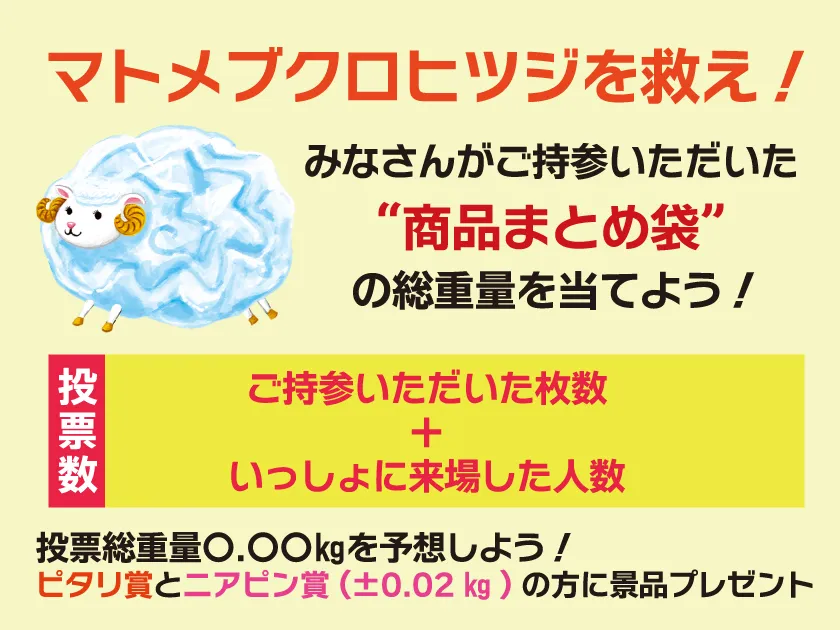
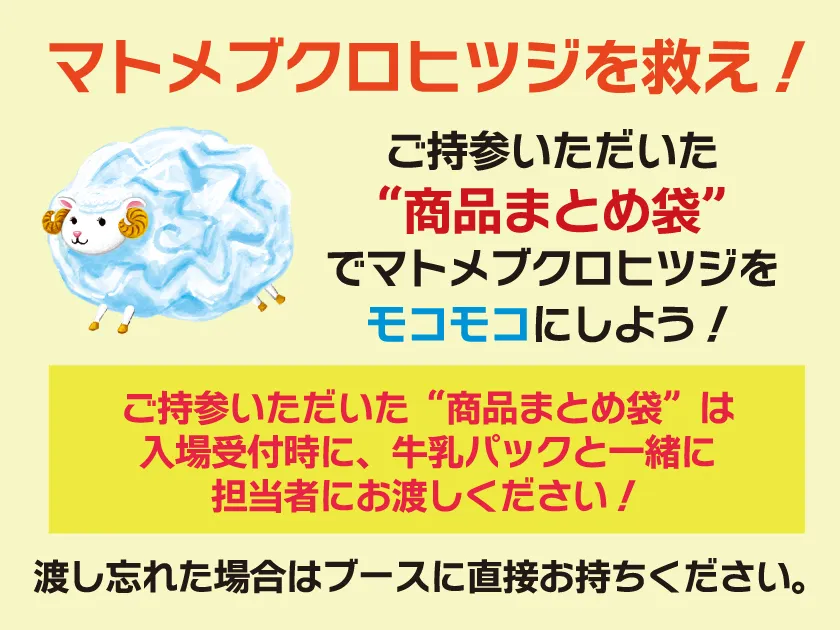
bug fix

diff --git a/src/components/EventMap.js b/src/components/EventMap.js
@@ -7,7 +7,24 @@ import { GLTFLoader } from 'three/examples/jsm/loaders/GLTFLoader';
 import { FontLoader } from 'three/examples/jsm/loaders/FontLoader';
 import { TextGeometry } from 'three/examples/jsm/geometries/TextGeometry';
 function Instructions({ onShowMap }) {
-    return (_jsx("div", { className: "flex flex-col items-center justify-center min-h-screen bg-gradient-to-r from-pink-300 via-purple-300 to-indigo-300 p-4", children: _jsxs("div", { className: "bg-white bg-opacity-90 p-8 rounded-3xl shadow-lg max-w-2xl transform transition duration-300 ease-in-out hover:scale-105 hover:shadow-2xl", children: [_jsx("h1", { className: "text-4xl font-extrabold mb-4 text-center text-pink-600 tracking-wide", children: "\u30DE\u30C3\u30D7\u5229\u7528\u306E\u6CE8\u610F\u4E8B\u9805" }), _jsxs("ul", { className: "list-disc pl-5 mb-6 space-y-3 text-lg text-gray-800", children: [_jsx("li", { children: "\u3053\u306E\u30DE\u30C3\u30D7\u306F3D\u8868\u793A\u3067\u3059\u3002\u30C9\u30E9\u30C3\u30B0\u3057\u3066\u8996\u70B9\u3092\u5909\u66F4\u3067\u304D\u307E\u3059\u3002" }), _jsx("li", { children: "\u5404\u30D6\u30FC\u30B9\u3092\u30AF\u30EA\u30C3\u30AF\u3059\u308B\u3068\u3001\u30D6\u30FC\u30B9\u306E\u5546\u54C1\u60C5\u5831\u304C\u8868\u793A\u3055\u308C\u307E\u3059\u3002" }), _jsx("li", { children: "\u5404\u30D6\u30FC\u30B9\u306E\u5546\u54C1\u60C5\u5831\u304B\u3089\u3001\u6C17\u306B\u5165\u3063\u305F\u5546\u54C1\u30923\u7A2E\u985E\uFF08\u54041\u70B9\uFF09\u307E\u3067\u3054\u6CE8\u6587\u3044\u305F\u3060\u3051\u307E\u3059\u3002" }), _jsx("li", { children: "\u30D4\u30F3\u30C1\u30A4\u30F3\u30FB\u30D4\u30F3\u30C1\u30A2\u30A6\u30C8\u3067\u62E1\u5927\u30FB\u7E2E\u5C0F\u3067\u304D\u307E\u3059\u3002" }), _jsx("li", { children: "\u30B9\u30DE\u30FC\u30C8\u30D5\u30A9\u30F3\u3067\u306E\u95B2\u89A7\u306F\u3001\u6A2A\u5411\u304D\u304C\u304A\u3059\u3059\u3081\u3067\u3059\u3002" }), _jsx("li", { children: "3D\u8868\u793A\u304C\u91CD\u3044\u5834\u5408\u306F\u3001\u30D6\u30E9\u30A6\u30B6\u3092\u518D\u8D77\u52D5\u3057\u3066\u304F\u3060\u3055\u3044\u3002" })] }), _jsx("button", { onClick: onShowMap, className: "map-button", children: "\u30DE\u30C3\u30D7\u3078GO" })] }) }));
+    const [loading, setLoading] = useState(false);
+    const loadMapResources = async () => {
+        // ここで3Dマップに必要なリソースを非同期で読み込む処理を実装
+        // 例えば、テクスチャやモデルを読み込む
+        await new Promise(resolve => setTimeout(resolve, 2000)); // 擬似的な遅延
+    };
+    useEffect(() => {
+        loadMapResources(); // コンポーネントマウント時にリソースを読み込む
+    }, []);
+    const handleShowMap = () => {
+        setLoading(true);
+        // マップが準備完了になるまで待つ処理
+        setTimeout(() => {
+            onShowMap(); // 3Dマップを表示
+            setLoading(false); // ローディングが完了したらfalseに
+        }, 3000); // 3秒の遅延（必要に応じて調整）
+    };
+    return (_jsx("div", { className: "flex flex-col items-center justify-center min-h-screen", children: loading ? (_jsx("div", { className: "loading-indicator", children: _jsx("p", { children: "\u30DE\u30C3\u30D7\u3092\u8AAD\u307F\u8FBC\u307F\u4E2D..." }) })) : (_jsxs("div", { className: "bg-white bg-opacity-80 p-8 rounded-2xl shadow-lg max-w-2xl", children: [_jsx("h1", { className: "text-3xl font-extrabold mb-4 text-center text-gray-900 tracking-wide", children: "\u30DE\u30C3\u30D7\u5229\u7528\u306E\u6CE8\u610F\u4E8B\u9805" }), _jsxs("ul", { className: "list-disc pl-5 mb-6 space-y-3 text-lg text-gray-700", children: [_jsx("li", { children: "\u3053\u306E\u30DE\u30C3\u30D7\u306F3D\u8868\u793A\u3067\u3059\u3002\u30C9\u30E9\u30C3\u30B0\u3057\u3066\u8996\u70B9\u3092\u5909\u66F4\u3067\u304D\u307E\u3059\u3002" }), _jsx("li", { children: "\u30D6\u30FC\u30B9\u3092\u30AF\u30EA\u30C3\u30AF\u3059\u308B\u3068\u3001\u5404\u30D6\u30FC\u30B9\u306E\u5546\u54C1\u60C5\u5831\u304C\u8868\u793A\u3055\u308C\u307E\u3059\u3002" }), _jsx("li", { children: "\u5404\u30D6\u30FC\u30B9\u306E\u5546\u54C1\u60C5\u5831\u304B\u3089\u3001\u6C17\u306B\u5165\u3063\u305F\u5546\u54C1\u30923\u7A2E\u985E\uFF08\u54041\u70B9\uFF09\u307E\u3067\u3054\u6CE8\u6587\u3044\u305F\u3060\u3051\u307E\u3059\u3002" }), _jsx("li", { children: "\u30D4\u30F3\u30C1\u30A4\u30F3\u30FB\u30D4\u30F3\u30C1\u30A2\u30A6\u30C8\u307E\u305F\u306F\u30B9\u30AF\u30ED\u30FC\u30EB\u3067\u62E1\u5927\u30FB\u7E2E\u5C0F\u3067\u304D\u307E\u3059\u3002" }), _jsx("li", { children: "\u30B9\u30DE\u30FC\u30C8\u30D5\u30A9\u30F3\u3067\u306E\u95B2\u89A7\u306F\u3001\u6A2A\u5411\u304D\u304C\u304A\u3059\u3059\u3081\u3067\u3059\u3002" }), _jsx("li", { children: "3D\u8868\u793A\u304C\u91CD\u3044\u5834\u5408\u306F\u3001\u30D6\u30E9\u30A6\u30B6\u3092\u518D\u8D77\u52D5\u3057\u3066\u304F\u3060\u3055\u3044\u3002" })] }), _jsx("button", { onClick: handleShowMap, className: "map-button", children: "\u30DE\u30C3\u30D7\u3078GO" })] })) }));
 }
 const booths = [
     // 上段（12ブース）
@@ -25,7 +42,7 @@ const booths = [
     { id: 1, position: [15, 0, -34], size: [6, 1.5, 2], name: "ヱスケー石鹸㈱", description: "パルシステム群馬の組合員が開発に協力！洗浄力が高い “衣類用部分洗い石けんです。「子どもからおとなまで楽しく使える！」をテーマに、成分や香り、石けんのサイズや形状にまでこだわりを詰め込みました。 固形石けんを使ったことのない方も、この商品からぜひお試しください。環境にも人にもやさしい洗濯が楽しくなる石けんです。", hasLink: true, link: "https://forms.gle/h5DLVLqZLLykifCJ8", image: "/images/booth1-1.webp?height=70&width=70", image2: "/images/booth1-2.webp?height=70&width=70" },
     // 左列（5ブース）
     { id: 13, position: [-27, 0, -28], size: [2, 1.5, 6], name: "㈱スクロール", description: "スクロールは全国の生協様に衣料品・靴、バッグといった服飾雑貨商品を販売しているアパレルメーカーです！当日は普段触れないお洋服の展示はもちろん、親子で楽しめるオリジナルエコバッグ作り体験を実施いたします！", hasLink: true, link: "https://www.scroll-fan.com/", image: "/images/booth13-1.webp?height=100&width=100", image2: "/images/booth13-2.webp?height=100&width=100" },
-    { id: 90, position: [-27, 0, -22], size: [2, 1.5, 3], name: " マトメブクロヒツジを救え!", description: "来場者のみなさんがご持参いただいた「商品まとめ袋」の総重量を予想しよう!予想が的中したあなたには景品を後日プレゼント!", hasLink: false, link: "https://forms.gle/h5DLVLqZLLykifCJ8", image: "/images/booth90-1.webp?height=100&width=100", image2: "/images/booth90-2.webp?height=100&width=100" },
+    { id: 90, position: [-27, 0, -22], size: [2, 1.5, 3], name: " マトメブクロヒツジを救え!", description: "来場者のみなさんがご持参いただいた「商品まとめ袋」で、マトメブクロヒツジをモコモコにしよう！", hasLink: false, link: "https://forms.gle/h5DLVLqZLLykifCJ8", image: "/images/booth90-1.webp?height=100&width=100", image2: "/images/booth90-2.webp?height=100&width=100" },
     { id: 91, position: [-27, 0, -18], size: [2, 1.5, 3], name: "リサイクル探し", description: "ブースの中に隠れる、リサイクルできるものとできないものを“5つ”探すゲームです。ぜひチャレンジしてみてね!", hasLink: false, link: "https://forms.gle/h5DLVLqZLLykifCJ8", image: "/images/booth91-1.webp?height=100&width=100", image2: "/images/booth91-2.webp?height=100&width=100" },
     { id: 92, position: [-27, 0, -14], size: [2, 1.5, 3], name: "エコ活ど～れだ", description: "街の風景からエコな活動をしているところを探してみよう！君はいくつ見つけられるかな？", hasLink: false, link: "https://forms.gle/h5DLVLqZLLykifCJ8", image: "/images/booth92-1.webp?height=100&width=100", image2: "/images/booth92-2.webp?height=100&width=100" },
     { id: 93, position: [-27, 0, -10], size: [2, 1.5, 3], name: "射的 de SDGs", description: "「S」「D」「Gs」の的を狙ってshoot!3つを狙って、SDGsを完成させよう!", hasLink: false, link: "https://forms.gle/h5DLVLqZLLykifCJ8", image: "/images/booth93-1.webp?height=100&width=100", image2: "/images/booth93-2.webp?height=100&width=100" },
@@ -113,7 +130,7 @@ export default function Component() {
         mountRef.current.appendChild(renderer.domElement);
         // Environment map
         const loader = new THREE.TextureLoader();
-        const texture = loader.load('images/map/background_new.png', () => {
+        const texture = loader.load('images/map/background_new.webp', () => {
             const rt = new THREE.WebGLCubeRenderTarget(texture.image.height);
             rt.fromEquirectangularTexture(renderer, texture);
             scene.background = rt.texture;
@@ -575,7 +592,7 @@ export default function Component() {
         }
         // 南壁の下に画像を追加
         const imageLoader = new THREE.TextureLoader();
-        imageLoader.load('/images/map/eventmap_info.jpg?v=' + Date.now(), (texture) => {
+        imageLoader.load('/images/map/eventmap_info.webp?v=' + Date.now(), (texture) => {
             const imageAspect = texture.image.width / texture.image.height;
             const scaleFactor = 1.4; // 拡大倍率
             const planeWidth = 40 * scaleFactor; // 幅を2倍に

diff --git a/src/components/EventMap.tsx b/src/components/EventMap.tsx
@@ -8,27 +8,52 @@ import { FontLoader } from 'three/examples/jsm/loaders/FontLoader'
 import { TextGeometry } from 'three/examples/jsm/geometries/TextGeometry'
 
 function Instructions({ onShowMap }: { onShowMap: () => void }) {
+  const [loading, setLoading] = useState(false);
+
+  const loadMapResources = async () => {
+    // ここで3Dマップに必要なリソースを非同期で読み込む処理を実装
+    // 例えば、テクスチャやモデルを読み込む
+    await new Promise(resolve => setTimeout(resolve, 2000)); // 擬似的な遅延
+  };
+
+  useEffect(() => {
+    loadMapResources(); // コンポーネントマウント時にリソースを読み込む
+  }, []);
+
+  const handleShowMap = () => {
+    setLoading(true);
+    // マップが準備完了になるまで待つ処理
+    setTimeout(() => {
+      onShowMap(); // 3Dマップを表示
+      setLoading(false); // ローディングが完了したらfalseに
+    }, 3000); // 3秒の遅延（必要に応じて調整）
+  };
+
   return (
-    <div className="flex flex-col items-center justify-center min-h-screen bg-gradient-to-r from-pink-300 via-purple-300 to-indigo-300 p-4">
-      <div className="bg-white bg-opacity-90 p-8 rounded-3xl shadow-lg max-w-2xl transform transition duration-300 ease-in-out hover:scale-105 hover:shadow-2xl">
-        <h1 className="text-4xl font-extrabold mb-4 text-center text-pink-600 tracking-wide">
-          マップ利用の注意事項
-        </h1>
-        <ul className="list-disc pl-5 mb-6 space-y-3 text-lg text-gray-800">
-          <li>このマップは3D表示です。ドラッグして視点を変更できます。</li>
-          <li>各ブースをクリックすると、ブースの商品情報が表示されます。</li>
-          <li>各ブースの商品情報から、気に入った商品を3種類（各1点）までご注文いただけます。</li>
-          <li>ピンチイン・ピンチアウトで拡大・縮小できます。</li>
-          <li>スマートフォンでの閲覧は、横向きがおすすめです。</li>
-          <li>3D表示が重い場合は、ブラウザを再起動してください。</li>
-        </ul>
-        <button 
-          onClick={onShowMap}
-          className="map-button" 
-        >
-          マップへGO
-        </button>
-      </div>
+    <div className="flex flex-col items-center justify-center min-h-screen">
+      {loading ? (
+        <div className="loading-indicator">
+          <p>マップを読み込み中...</p>
+          {/* ローディングスピナーやアニメーションを追加 */}
+        </div>
+      ) : (
+        <div className="bg-white bg-opacity-80 p-8 rounded-2xl shadow-lg max-w-2xl">
+          <h1 className="text-3xl font-extrabold mb-4 text-center text-gray-900 tracking-wide">
+            マップ利用の注意事項
+          </h1>
+          <ul className="list-disc pl-5 mb-6 space-y-3 text-lg text-gray-700">
+            <li>このマップは3D表示です。ドラッグして視点を変更できます。</li>
+            <li>ブースをクリックすると、各ブースの商品情報が表示されます。</li>
+            <li>各ブースの商品情報から、気に入った商品を3種類（各1点）までご注文いただけます。</li>
+            <li>ピンチイン・ピンチアウトまたはスクロールで拡大・縮小できます。</li>
+            <li>スマートフォンでの閲覧は、横向きがおすすめです。</li>
+            <li>3D表示が重い場合は、ブラウザを再起動してください。</li>
+          </ul>
+          <button onClick={handleShowMap} className="map-button">
+            マップへGO
+          </button>
+        </div>
+      )}
     </div>
   );
 }
@@ -63,7 +88,7 @@ const booths: Booth[] = [
 
 // 左列（5ブース）
 { id: 13, position: [-27, 0, -28], size: [2, 1.5, 6], name: "㈱スクロール", description: "スクロールは全国の生協様に衣料品・靴、バッグといった服飾雑貨商品を販売しているアパレルメーカーです！当日は普段触れないお洋服の展示はもちろん、親子で楽しめるオリジナルエコバッグ作り体験を実施いたします！", hasLink: true, link: "https://www.scroll-fan.com/", image: "/images/booth13-1.webp?height=100&width=100", image2: "/images/booth13-2.webp?height=100&width=100" },
-{ id: 90, position: [-27, 0, -22], size: [2, 1.5, 3], name: " マトメブクロヒツジを救え!", description: "来場者のみなさんがご持参いただいた「商品まとめ袋」の総重量を予想しよう!予想が的中したあなたには景品を後日プレゼント!", hasLink: false, link: "https://forms.gle/h5DLVLqZLLykifCJ8", image: "/images/booth90-1.webp?height=100&width=100", image2: "/images/booth90-2.webp?height=100&width=100" },
+{ id: 90, position: [-27, 0, -22], size: [2, 1.5, 3], name: " マトメブクロヒツジを救え!", description: "来場者のみなさんがご持参いただいた「商品まとめ袋」で、マトメブクロヒツジをモコモコにしよう！", hasLink: false, link: "https://forms.gle/h5DLVLqZLLykifCJ8", image: "/images/booth90-1.webp?height=100&width=100", image2: "/images/booth90-2.webp?height=100&width=100" },
 { id: 91, position: [-27, 0, -18], size: [2, 1.5, 3], name: "リサイクル探し", description: "ブースの中に隠れる、リサイクルできるものとできないものを“5つ”探すゲームです。ぜひチャレンジしてみてね!", hasLink: false, link: "https://forms.gle/h5DLVLqZLLykifCJ8", image: "/images/booth91-1.webp?height=100&width=100", image2: "/images/booth91-2.webp?height=100&width=100" },
 { id: 92, position: [-27, 0, -14], size: [2, 1.5, 3], name: "エコ活ど～れだ", description: "街の風景からエコな活動をしているところを探してみよう！君はいくつ見つけられるかな？", hasLink: false, link: "https://forms.gle/h5DLVLqZLLykifCJ8", image: "/images/booth92-1.webp?height=100&width=100", image2: "/images/booth92-2.webp?height=100&width=100" },
 { id: 93, position: [-27, 0, -10], size: [2, 1.5, 3], name: "射的 de SDGs", description: "「S」「D」「Gs」の的を狙ってshoot!3つを狙って、SDGsを完成させよう!", hasLink: false, link: "https://forms.gle/h5DLVLqZLLykifCJ8", image: "/images/booth93-1.webp?height=100&width=100", image2: "/images/booth93-2.webp?height=100&width=100" },
@@ -168,7 +193,7 @@ export default function Component() {
 
     // Environment map
     const loader = new THREE.TextureLoader()
-    const texture = loader.load('images/map/background_new.png', () => {
+    const texture = loader.load('images/map/background_new.webp', () => {
       const rt = new THREE.WebGLCubeRenderTarget(texture.image.height)
       rt.fromEquirectangularTexture(renderer, texture)
       scene.background = rt.texture
@@ -697,7 +722,7 @@ arrowPositions.forEach((arrow) => {
 
     // 南壁の下に画像を追加
     const imageLoader = new THREE.TextureLoader();
-    imageLoader.load('/images/map/eventmap_info.jpg?v=' + Date.now(), (texture) => {
+    imageLoader.load('/images/map/eventmap_info.webp?v=' + Date.now(), (texture) => {
       const imageAspect = texture.image.width / texture.image.height;
       const scaleFactor = 1.4;  // 拡大倍率
       const planeWidth = 40 * scaleFactor;  // 幅を2倍に
